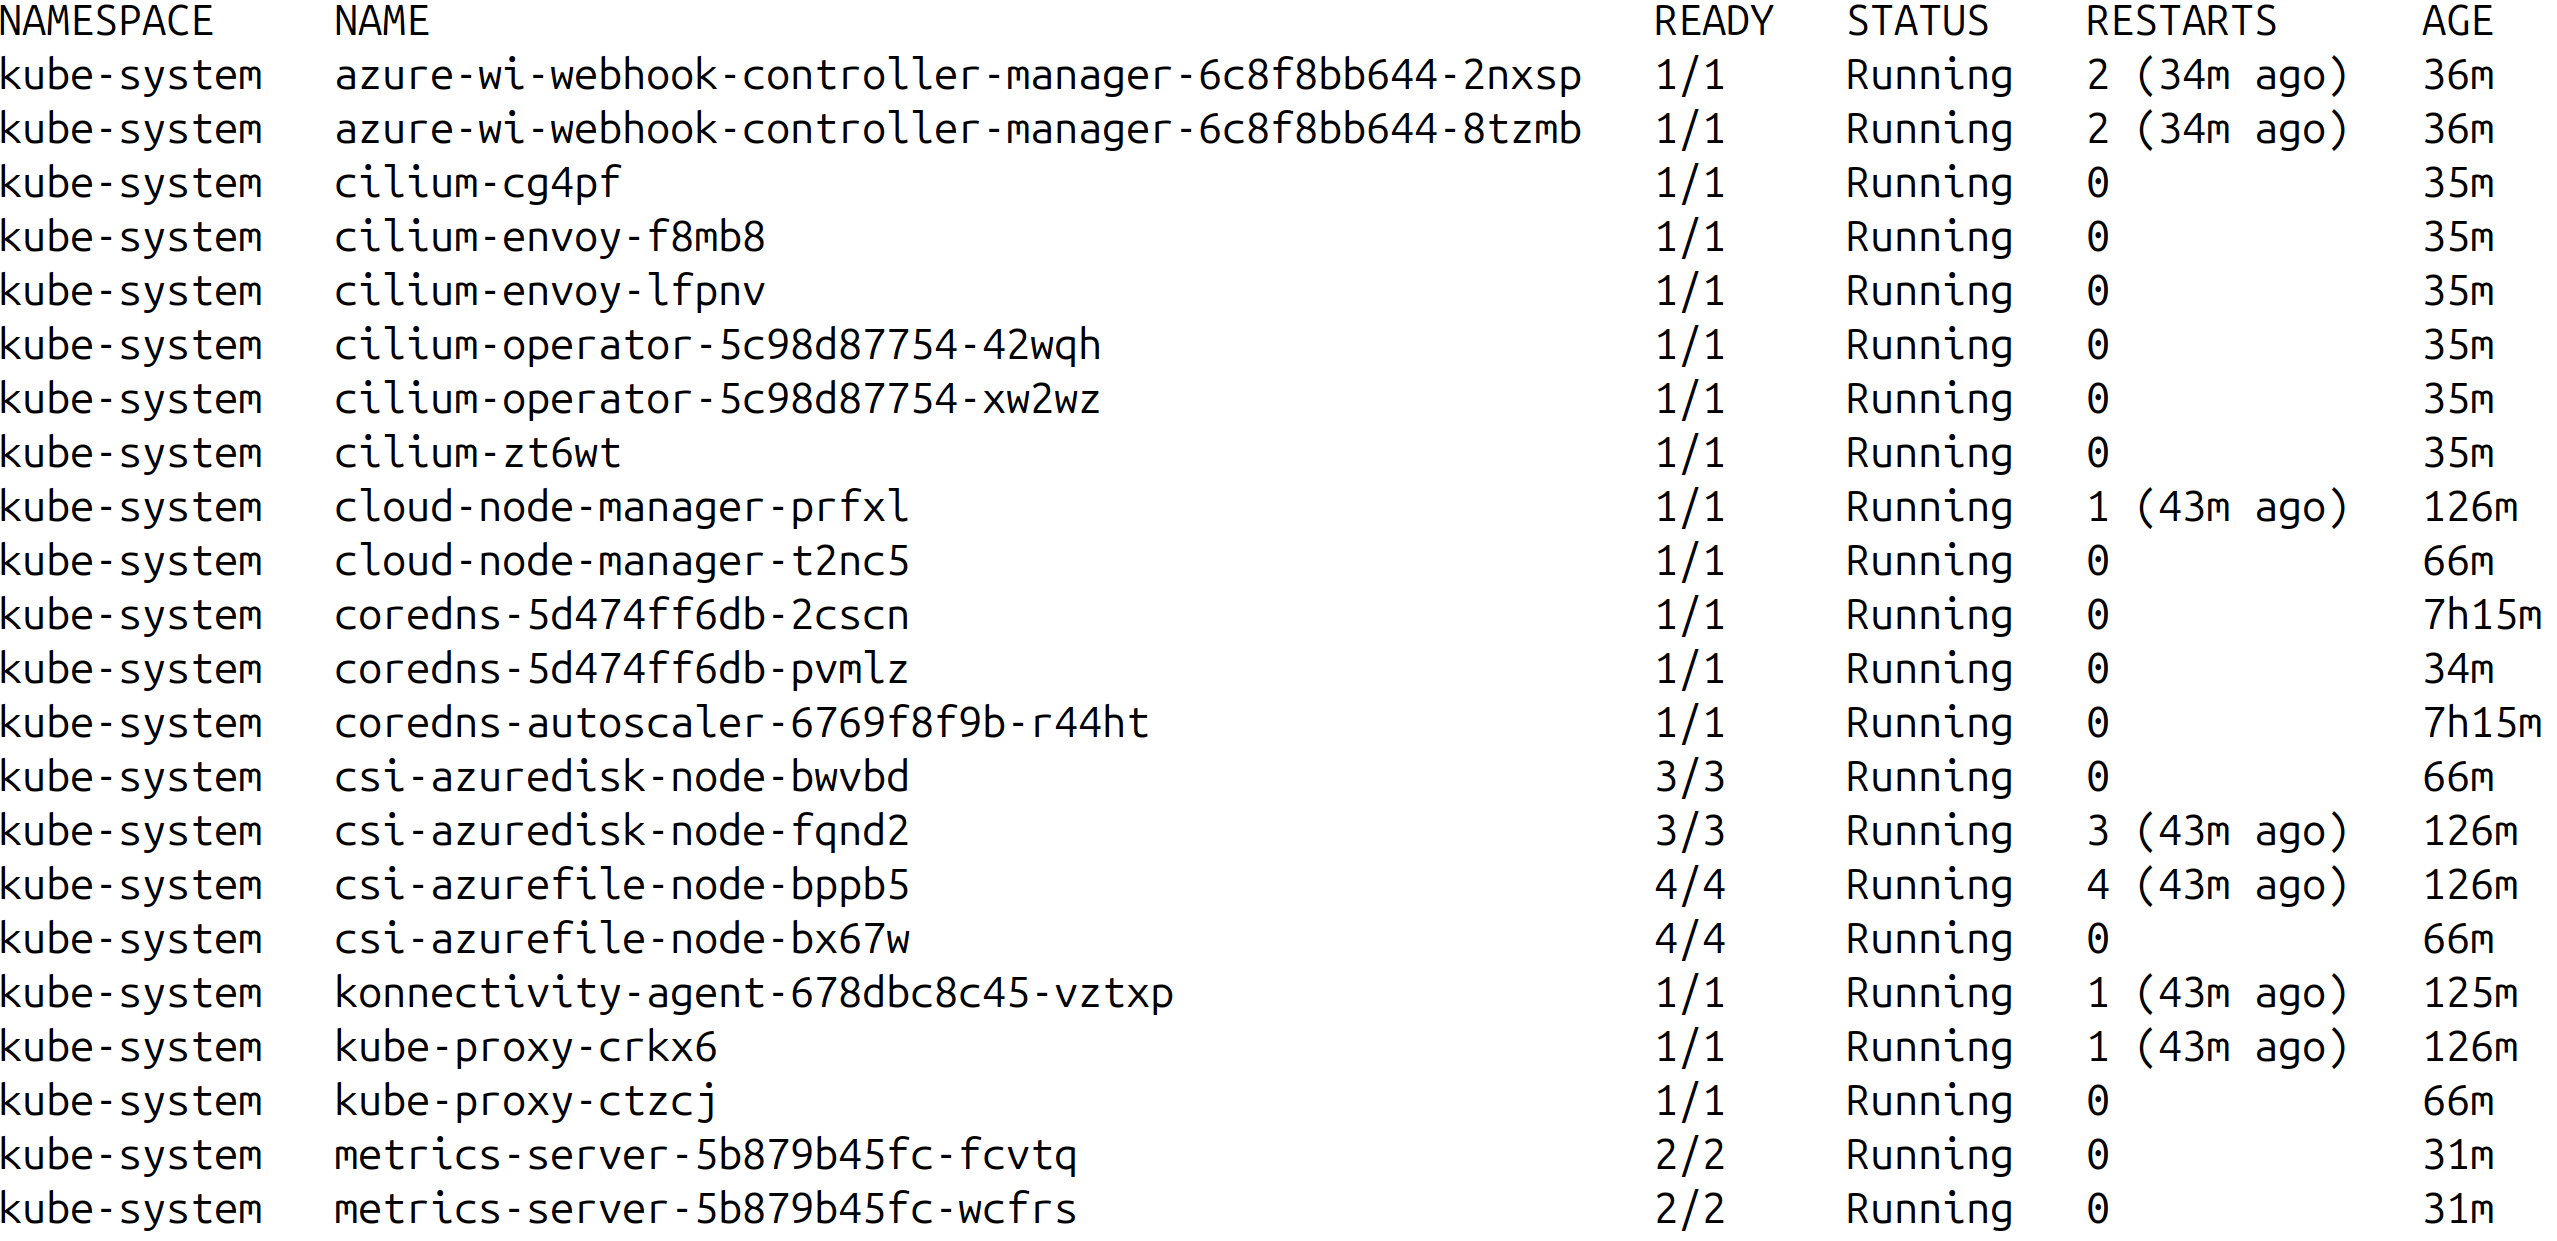
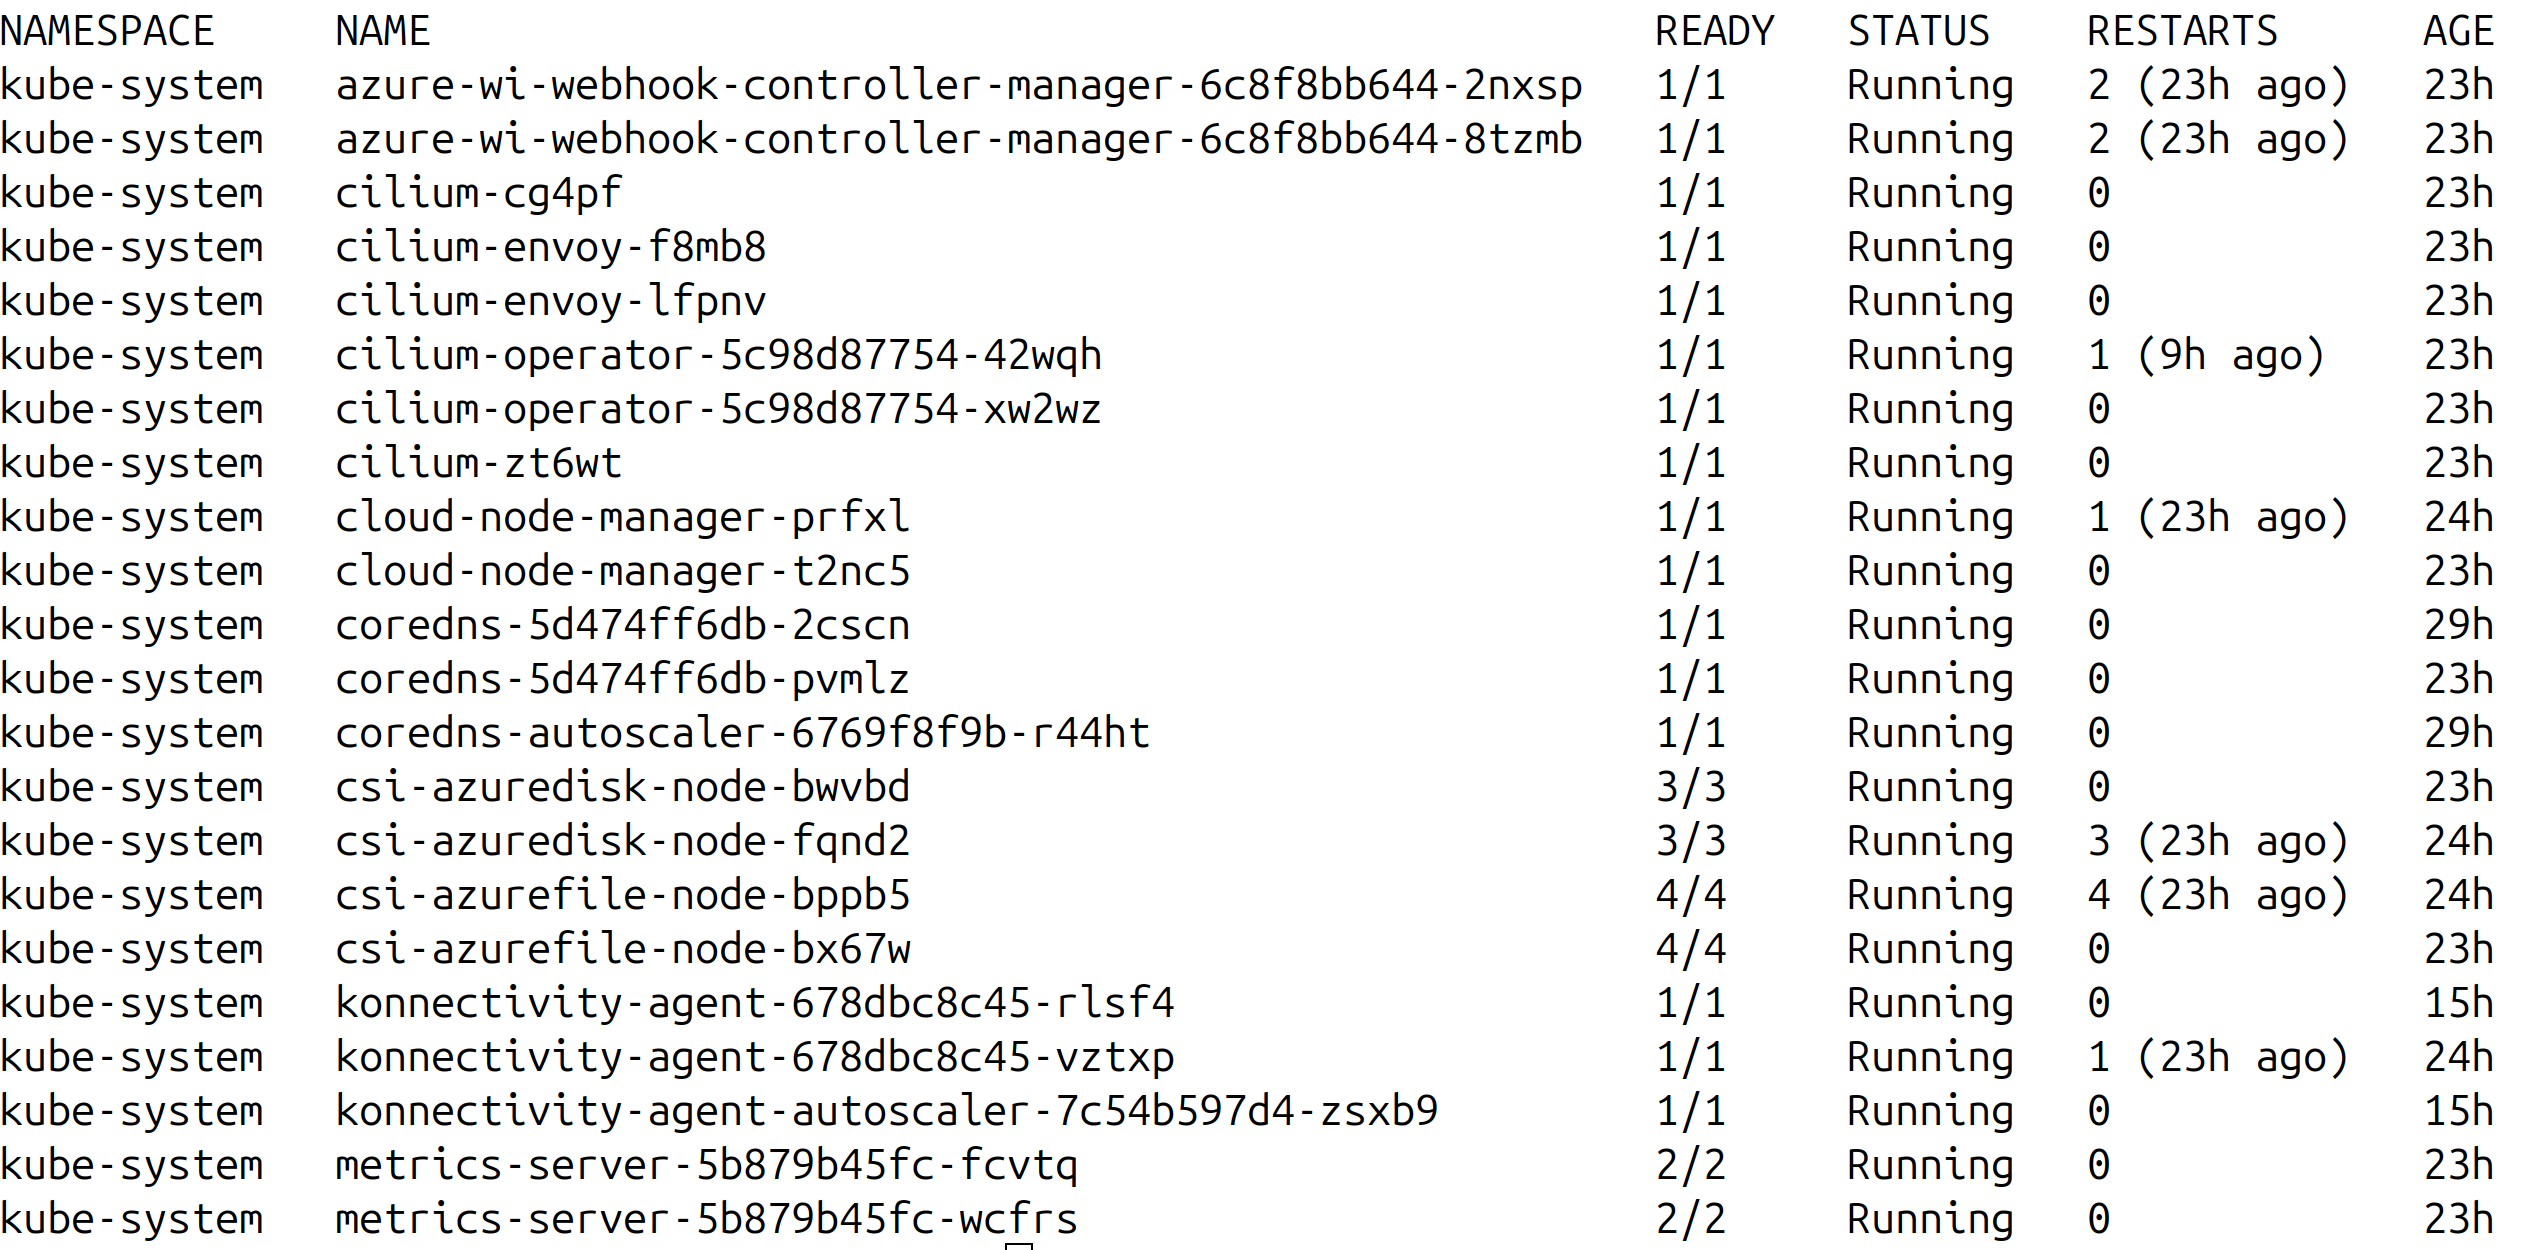
feat: Azure ArgoCD + components

Changed region(s): [[0.0, 0.0, 0.6248, 1.0], [0.6248, 0.0, 0.9996, 1.0]]

diff --git a/README.md b/README.md
@@ -190,14 +190,16 @@ architecture are planned as the next major phase.
 
 This phase is explicitly a learning/demonstration extension - documented as such in the README to preempt "why multi-cloud for this workload?" questions.
 
-### Azure - Frontend Platform
+### Azure
 - [x] Azure AKS
-- [x] Azure networking
-- [x] Azure Container Registry
 - [x] Management/jumpbox
 - [x] Cilium CNI
+- [x] Azure networking
+- [x] Azure Container Registry
 - [x] Frontend CI
 - [ ] Frontend CD
+- [ ] Backend CI
+- [ ] Backend CD
 - [ ] HTTPS / TLS
 - [ ] Azure monitoring
 
